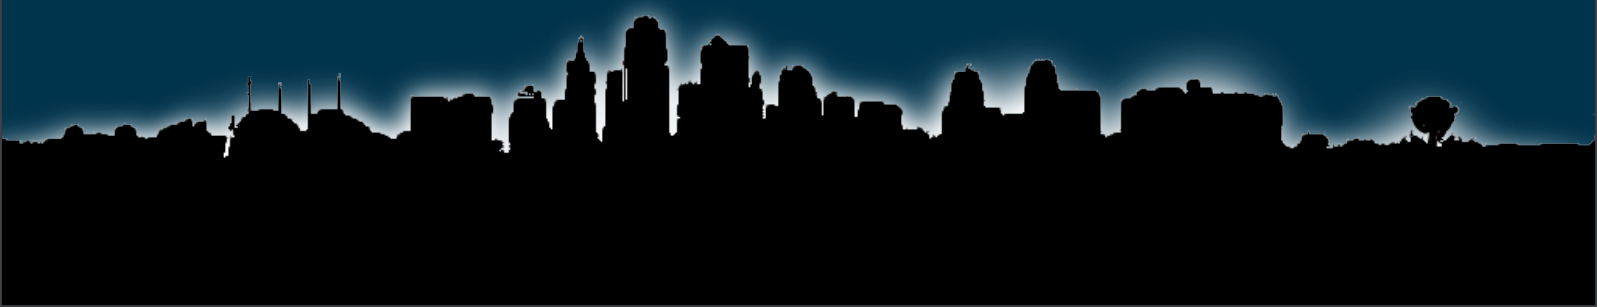
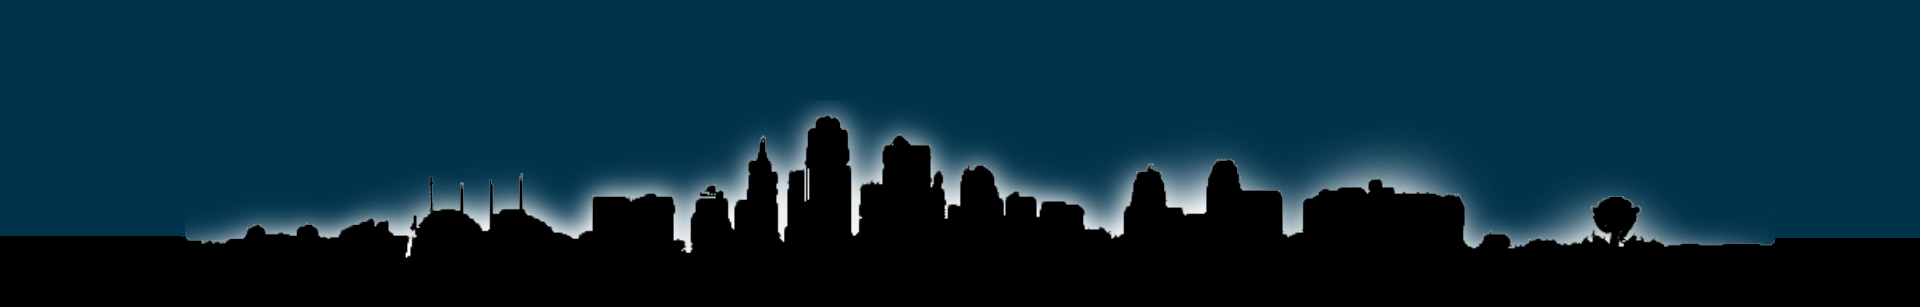
updated index

diff --git a/index.html b/index.html
@@ -20,7 +20,7 @@
         <p class="text-white text-center col-10" style="font-size:1.75em;">In a world where zip codes can predict outcomes, PREP-KC <span class="gradient-text">ignites potential</span> by bringing educators and industry professionals together to build paths to meaningful careers for students across the heart of bistate Kansas City.</p>
     </div>
     <div class="container-fluid p-0">
-        <a href="about.html" class="card" id="card1">
+        <a class="card" id="card1">
             <span class="letter">P</span>
             <span class="phrase">
                 Partnership for
@@ -28,7 +28,7 @@
                 <!-- <button type="button" class="btn btn-primary btn-lg">About PREP-KC</button> -->
             </span>
         </a>
-        <a href="impact.html" class="card" id="card2">
+        <a class="card" id="card2">
             <span class="letter">R</span>
             <span class="phrase">
                 Regional
@@ -36,7 +36,7 @@
                 <!-- <button type="button" class="btn btn-primary btn-lg">Data</button> -->
             </span>
         </a>
-        <a href="strategies.html" class="card" id="card3">
+        <a class="card" id="card3">
             <span class="letter">E</span>
             <span class="phrase">
                 Educational
@@ -44,7 +44,7 @@
                 <!-- <button type="button" class="btn btn-primary btn-lg">Strategies that Work</button> -->
             </span>
         </a>
-        <a href="volunteer.html" class="card" id="card4">
+        <a class="card" id="card4">
             <span class="letter">P</span>
             <span class="phrase">
                 Preparation
@@ -57,7 +57,7 @@
         <span>K C</span>
     </div>
      <!-- FOOTER -->
-     <footer class="container">
+     <footer class="container mt-5">
         <div class="footer row">
             <div class="footer-text col">
                 <p>PREP-KC</p>

diff --git a/css/index.css b/css/index.css
@@ -14,7 +14,7 @@ body {
 
 @media (min-width: 768px) {
     .index-nav {
-        background-image: url('../img/kc.png');
+        background-image: url('../img/kc-2.png');
         background-size: cover;
         background-position: center; /* Center the image */
         background-repeat: no-repeat; /* Prevent the image from repeating */
@@ -26,10 +26,16 @@ body {
 }
 
 .navbar {
+    display:flex;
     margin-bottom: -20px;
     align-items: end;
 }
 
+.navbar-nav {
+    display: flex;
+    justify-content: center;
+    flex-grow: 1; /* Allow the nav items to grow and center */
+}
 .navbar-brand img {
     max-height: 20vh; 
     width: auto; 
@@ -174,11 +180,11 @@ body {
 /* KC Box styles */
 .kc-box {
     position: absolute;
-    bottom: 20px;
+    bottom: -5vh;
     left: 50%;
     transform: translateX(-50%);
     color: #fff;
-    font-size: 8em;
+    font-size: 10em;
     font-weight: bold;
     filter: drop-shadow(3px 3px 3px #000);
 }
